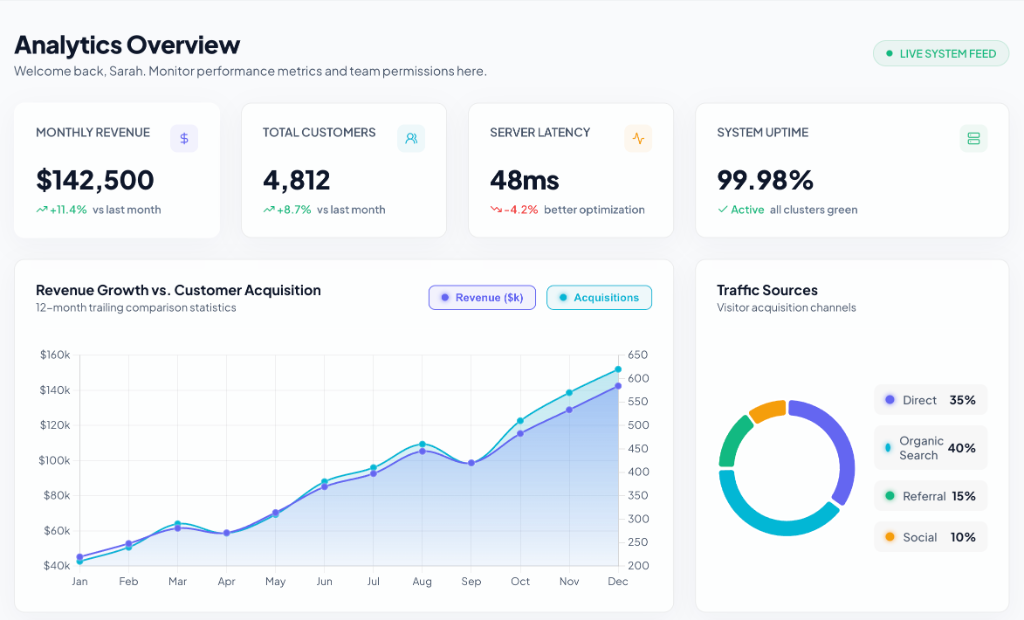
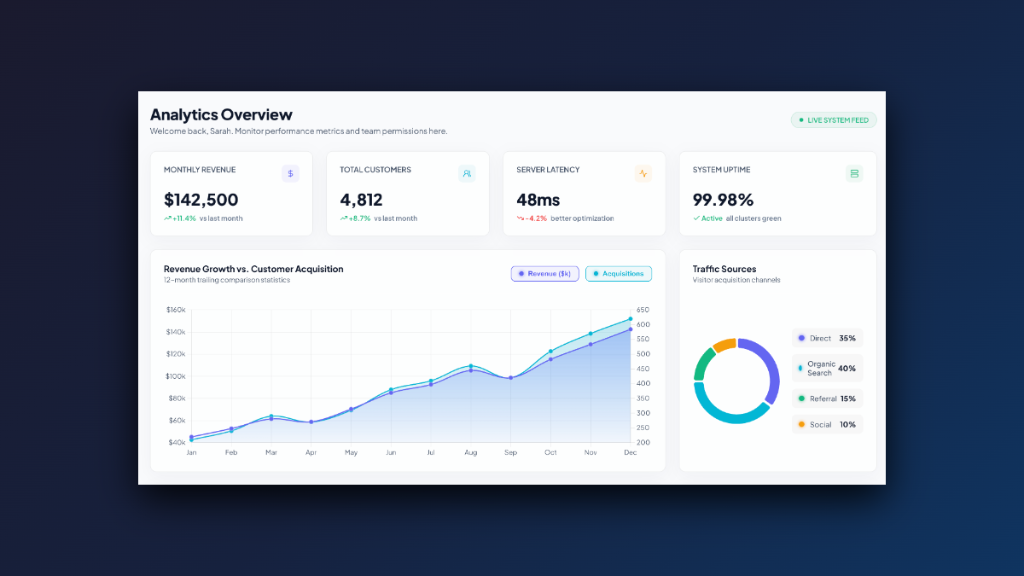
Update AuraSaaS project preview with beautiful mockup screenshot and responsive aspect ratio

diff --git a/css/style.css b/css/style.css
@@ -223,9 +223,8 @@ h1, h2, h3 {
 
 .project-image {
     width: 100%;
-    height: 300px;
+    aspect-ratio: 16 / 9;
     object-fit: cover;
-    object-position: top; /* Focus on the top of the real dashboard screenshot */
     display: block;
     border-bottom: 1px solid var(--glass-border);
 }
